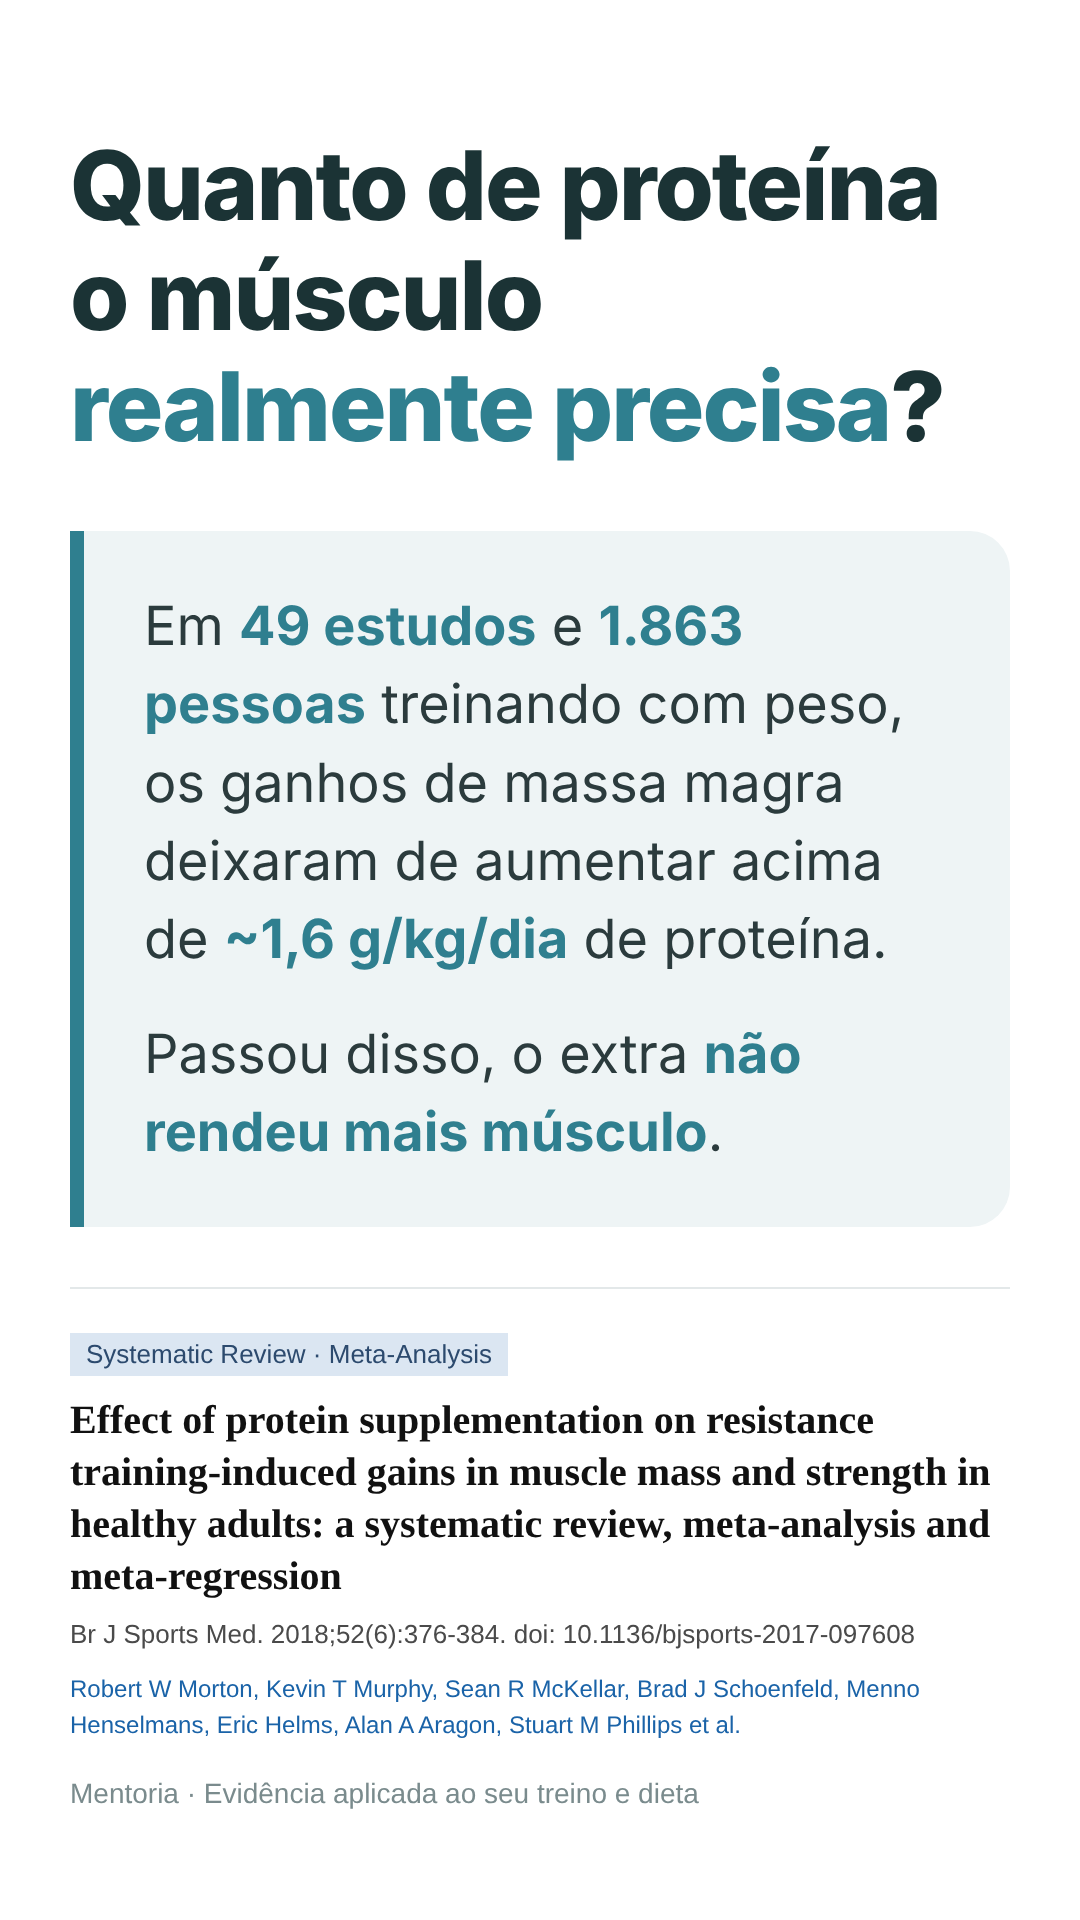
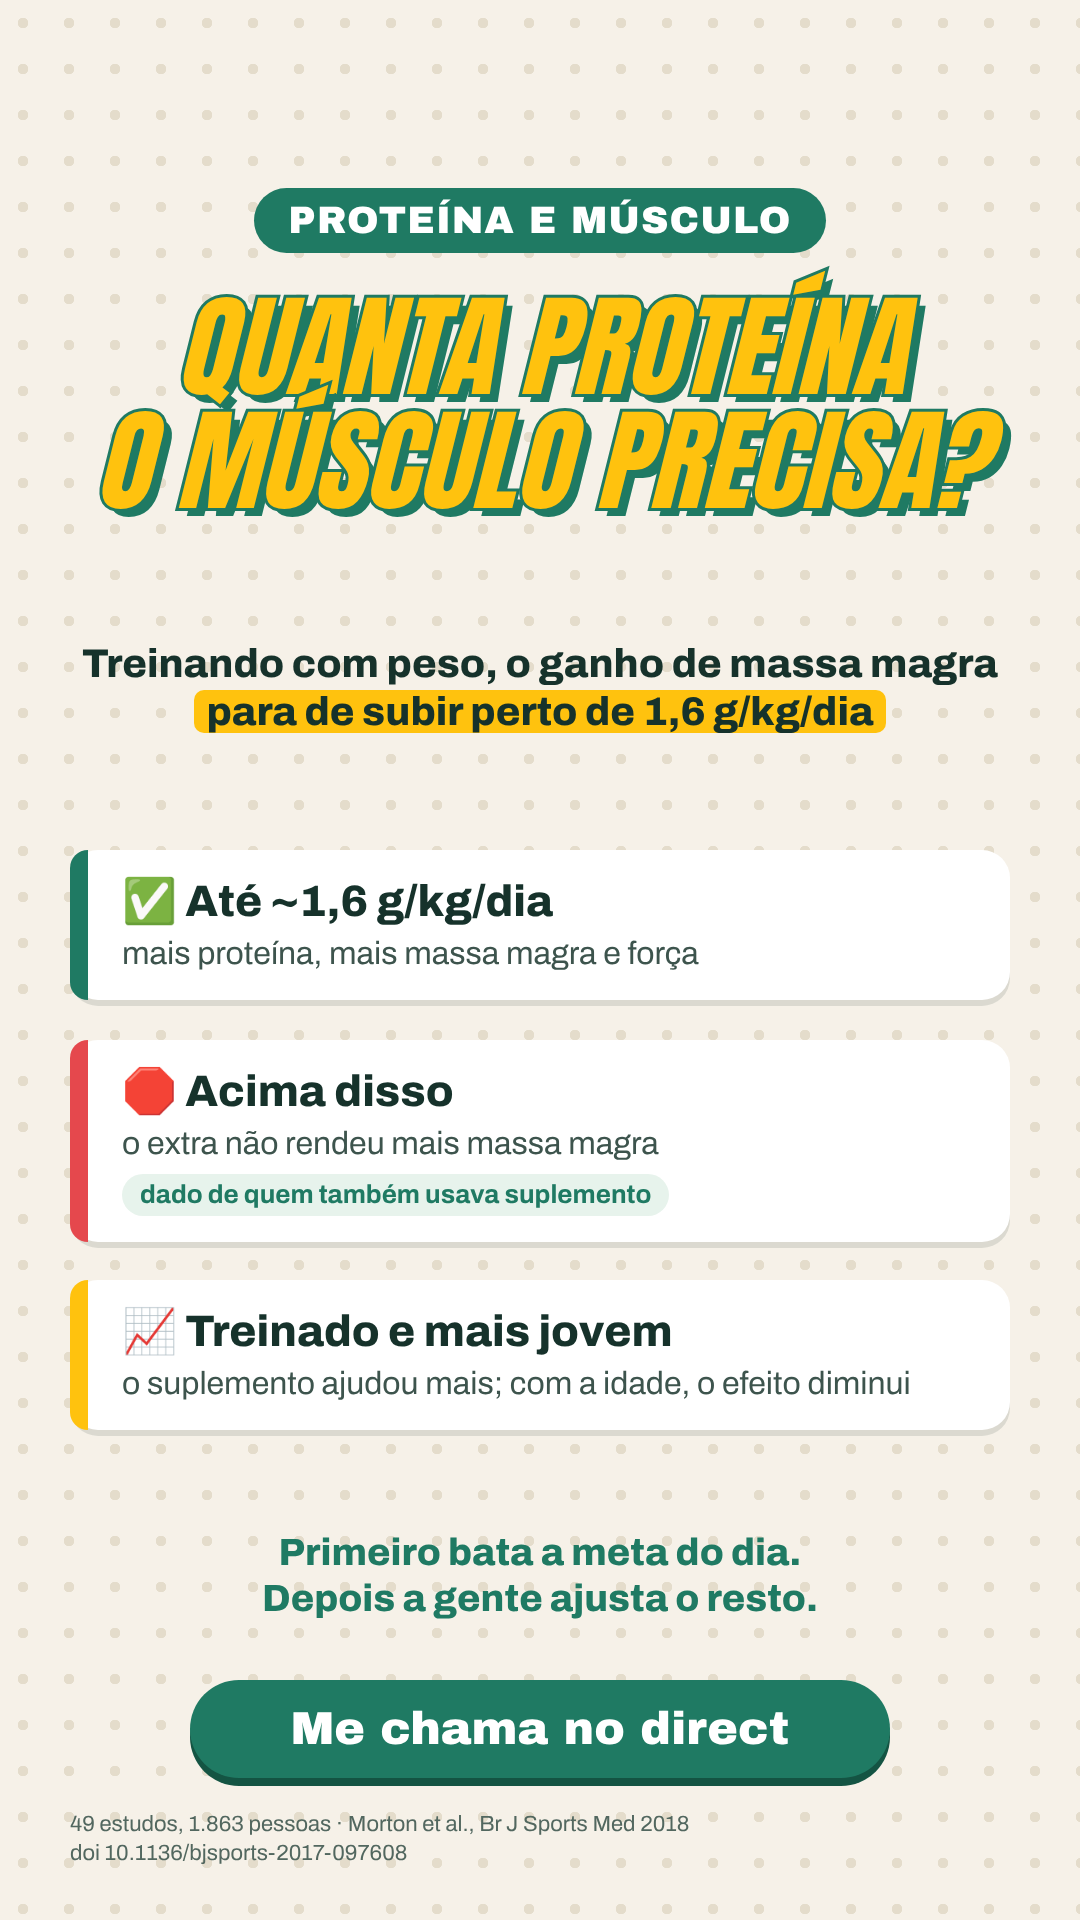
Refaz story de proteína no formato dos stories anteriores
Claude-Session: https://claude.ai/code/session_01EhzqSgt53X9biqi1EPpf9q

Changed region(s): [[0.0611, 0.0625, 0.9472, 0.9688], [0.8861, 0.625, 0.9167, 0.6562]]

diff --git a/stories/story-proteina-1-6.html b/stories/story-proteina-1-6.html
@@ -1,33 +1,35 @@
 <!doctype html>
 <html lang="pt-BR"><head><meta charset="utf-8"><title>Story – Proteína 1,6 g/kg</title>
+<link href="https://fonts.googleapis.com/css2?family=Anton&family=Archivo:wght@400;600;700;800&family=Archivo+Black&display=swap" rel="stylesheet">
 <style>
 *{box-sizing:border-box;margin:0}
-body{width:1080px;height:1920px;background:#fff;font-family:Inter,"Helvetica Neue",Arial,sans-serif;color:#1b3335;padding:130px 70px 0;position:relative}
-h1{font-size:96px;line-height:1.15;font-weight:800;letter-spacing:-2px}
-h1 em{font-style:normal;color:#2f7f8f}
-.box{margin-top:70px;background:#eef4f5;border-left:14px solid #2f7f8f;border-radius:0 40px 40px 0;padding:56px 60px}
-.box p{font-size:54px;line-height:1.45;color:#2b3b3d}
-.box p+p{margin-top:36px}
-.box b{color:#2f7f8f;font-weight:700}
-hr{border:0;border-top:2px solid #e3e8e9;margin:60px 0 44px}
-.ref{font-family:Georgia,serif}
-.tag{display:inline-block;font:26px Arial;background:#dbe6f2;color:#2c4a6e;padding:6px 16px;margin-bottom:18px}
-.ref h3{font-size:40px;line-height:1.3;font-weight:700;color:#111}
-.ref .m{font:26px Arial;color:#4a4a4a;margin:14px 0 18px;line-height:1.4}
-.ref .a{font:24px Arial;color:#1a63a8;line-height:1.5}
-.foot{position:absolute;bottom:110px;left:70px;right:70px;font:28px Arial;color:#7a8b8d}
+:root{--verde:#1F7A63;--amarelo:#FFC20E;--creme:#F6F1E8;--vermelho:#E5484D;--tinta:#16322B}
+body{width:1080px;height:1920px;position:relative;overflow:hidden;font-family:Archivo,sans-serif;color:var(--tinta);
+ background-color:var(--creme);background-image:radial-gradient(#E4DCCB 5px,transparent 5.5px);background-size:46px 46px}
+.abs{position:absolute;left:0;width:100%;text-align:center}
+.tag{position:absolute;left:0;width:100%;text-align:center;top:200px}
+.tag span{font-family:'Archivo Black';font-size:38px;color:#fff;background:var(--verde);border-radius:99px;padding:12px 34px;letter-spacing:.03em}
+.yt{font-family:Anton;font-style:italic;color:var(--amarelo);text-transform:uppercase;line-height:1.02;
+ -webkit-text-stroke:6px var(--verde);paint-order:stroke fill;text-shadow:8px 8px 0 var(--verde)}
+.big{font-weight:800;line-height:1.2}
+mark{background:var(--amarelo);color:var(--tinta);padding:0 12px;border-radius:10px}
+.row{position:absolute;left:70px;width:940px;background:#fff;border-radius:28px;padding:26px 34px 26px 52px;box-shadow:0 6px 0 rgba(22,50,43,.12)}
+.row:before{content:"";position:absolute;left:0;top:0;bottom:0;width:18px;border-radius:28px 0 0 28px;background:var(--c)}
+.row b{display:block;font-size:44px;font-weight:800;line-height:1.15}
+.row p{font-size:32px;line-height:1.3;margin-top:6px;color:#3d544d}
+.pill{display:inline-block;font-weight:700;font-size:26px;color:var(--verde);background:#E7F3EC;border-radius:99px;padding:4px 18px;margin-top:10px}
+.cta{position:absolute;background:var(--verde);color:#fff;font-family:'Archivo Black';text-align:center;border-radius:99px;box-shadow:0 8px 0 #145443}
+.fonte{position:absolute;font-size:22px;line-height:1.3;color:#52675f}
 </style></head><body>
-<h1>Quanto de proteína o músculo <em>realmente precisa</em>?</h1>
-<div class="box">
-<p>Em <b>49 estudos</b> e <b>1.863 pessoas</b> treinando com peso, os ganhos de massa magra deixaram de aumentar acima de <b>~1,6 g/kg/dia</b> de proteína.</p>
-<p>Passou disso, o extra <b>não rendeu mais músculo</b>.</p>
-</div>
-<hr>
-<div class="ref">
-<span class="tag">Systematic Review · Meta-Analysis</span>
-<h3>Effect of protein supplementation on resistance training-induced gains in muscle mass and strength in healthy adults: a systematic review, meta-analysis and meta-regression</h3>
-<div class="m">Br J Sports Med. 2018;52(6):376-384. doi: 10.1136/bjsports-2017-097608</div>
-<div class="a">Robert W Morton, Kevin T Murphy, Sean R McKellar, Brad J Schoenfeld, Menno Henselmans, Eric Helms, Alan A Aragon, Stuart M Phillips et al.</div>
-</div>
-<div class="foot">Mentoria · Evidência aplicada ao seu treino e dieta</div>
+<div class="tag"><span>PROTEÍNA E MÚSCULO</span></div>
+<div class="abs yt" style="top:290px;font-size:112px">Quanta proteína<br>o músculo precisa?</div>
+<div class="abs big" style="top:640px;font-size:40px">Treinando com peso, o ganho de massa magra<br><mark>para de subir perto de 1,6 g/kg/dia</mark></div>
+
+<div class="row" style="--c:#1F7A63;top:850px"><b>✅ Até ~1,6 g/kg/dia</b><p>mais proteína, mais massa magra e força</p></div>
+<div class="row" style="--c:#E5484D;top:1040px"><b>🛑 Acima disso</b><p>o extra não rendeu mais massa magra<br><span class="pill">dado de quem também usava suplemento</span></p></div>
+<div class="row" style="--c:#FFC20E;top:1280px"><b>📈 Treinado e mais jovem</b><p>o suplemento ajudou mais; com a idade, o efeito diminui</p></div>
+
+<div class="abs big" style="top:1530px;font-size:38px;color:var(--verde)">Primeiro bata a meta do dia.<br>Depois a gente ajusta o resto.</div>
+<div class="cta" style="top:1680px;left:190px;width:700px;font-size:46px;padding:24px 0">Me chama no direct</div>
+<div class="fonte" style="top:1810px;left:70px;width:940px">49 estudos, 1.863 pessoas · Morton et al., Br J Sports Med 2018<br>doi 10.1136/bjsports-2017-097608</div>
 </body></html>
